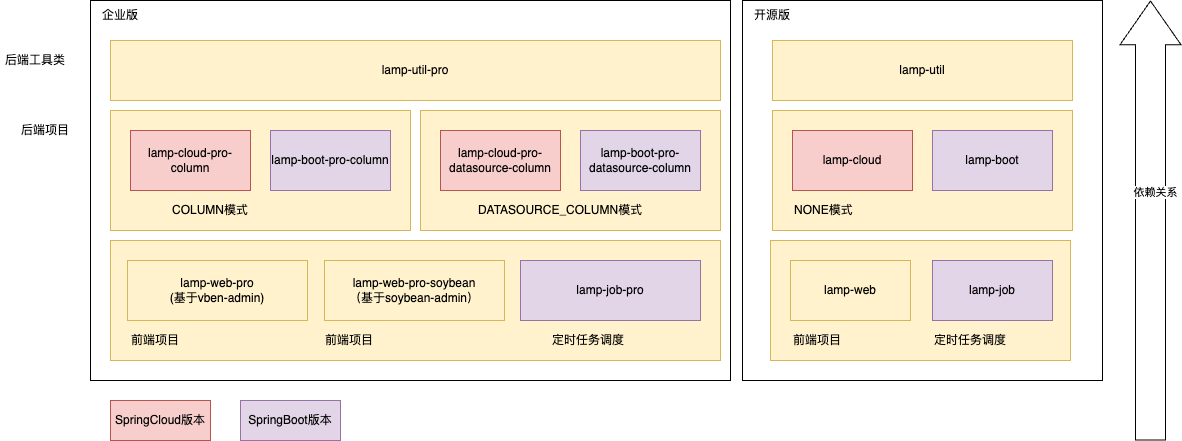
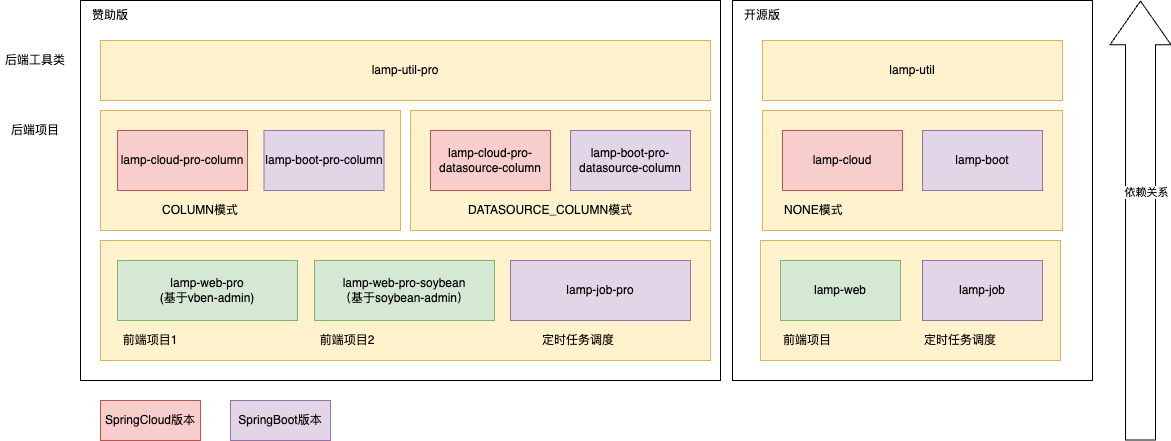
feat: 更新

diff --git a/docs/vip/05.功能对比.md b/docs/vip/05.功能对比.md
@@ -10,77 +10,72 @@ tag:
 
 ## 版本对比
 
-请认真对比个人版和赞助版区别，有疑问先咨询作者（微信： tyh306479353）
+请认真对比赞助版区别，有疑问先咨询作者（微信： tyh306479353）
 
 - **开源版** 拥有的功能和源码 = [开源版](https://github.com/zuihou)
-
 - **赞助版** 拥有的功能和源码 = 赞助版 + 开源版;(不可以提供源码给第三方)
+
+> 若贵公司确实需要提供源码给第三方客户，请加作者微信咨询“买断版”
 
 ## 源码工程说明
 
-4.15.0之前只有赞助版，4.16.0后none模式开源，其他模式属于赞助版。
-
-| 项目说明   | none模式/非租户模式/普通模式（4.16.0+已开源）                | column模式/字段模式/列模式 | datasource模式/数据源模式 |
-| ---------- | ------------------------------------------------------------ | -------------------------- | ------------------------- |
-| 后端工具   | [lamp-util](https://gitee.com/zuihou111/lamp-util/blob/4.x_java17) | lamp-util-pro              | lamp-util-pro             |
-| 单体框架   | [lamp-boot](https://gitee.com/zuihou111/lamp-boot/blob/4.x_java17) | lamp-boot-pro-column       | lamp-boot-pro-datasource  |
-| 微服务框架 | [lamp-cloud](https://gitee.com/dromara/lamp-cloud/blob/4.x_java17) | lamp-cloud-pro-column      | lamp-cloud-pro-datasource |
-| 定时任务   | -                                                            | lamp-job-pro               | lamp-job-pro              |
-| vue3前端   | [lamp-web](https://gitee.com/zuihou111/lamp-web/blob/4.x_java17) | lamp-web-pro               | lamp-web-pro              |
-
-
+| 项目说明   | none模式/非租户模式/普通模式                                                  | column模式/字段模式/列模式     | datasource模式/数据源模式        |
+|--------|--------------------------------------------------------------------|-----------------------|---------------------------|
+| 后端工具   | [lamp-util](https://gitee.com/zuihou111/lamp-util/blob/4.x_java17) | lamp-util-pro         | lamp-util-pro             |
+| 单体框架   | [lamp-boot](https://gitee.com/zuihou111/lamp-boot/blob/4.x_java17) | lamp-boot-pro-column  | lamp-boot-pro-datasource  |
+| 微服务框架  | [lamp-cloud](https://gitee.com/dromara/lamp-cloud/blob/4.x_java17) | lamp-cloud-pro-column | lamp-cloud-pro-datasource |
+| 定时任务   | -                                                                  | lamp-job-pro          | lamp-job-pro              |
+| vue3前端 | [lamp-web](https://gitee.com/zuihou111/lamp-web/blob/4.x_java17)   | lamp-web-pro          | lamp-web-pro              |
 
 ## 功能对比
 
-| 功能说明                                                                   | 开源版 | 个人版<br/>（4.x无个人版） | 赞助版 |
-|------------------------------------------------------------------------|-------|----------------|-------|
-| 更新频率                                                                   | 一般   | 快              | 频繁  |
-| mybatis-plus功能增强                                                       | ✅     | ✅              | ✅     |
-| 多种雪花id生成算法自由切换                                                         | ✅     | ✅              | ✅     |
-| swagger文档增强                                                            | ✅     | ✅              | ✅     |
-| 防 xss 攻击                                                               | ✅     | ✅              | ✅     |
-| 防 sql  注入攻击                                                            | ✅     | ✅              | ✅     |
-| SpringCloud 全局配置增强                                                     | ✅     | ✅              | ✅     |
-| Excel导入导出                                                 | ❌    | ❌             | ✅     |
-| 自研轻量级RBAC权限配置、权限鉴权逻辑                                                   | ✅     | ✅              | ✅     |
-| 权限认证、权限鉴权                                          | ✅     | ✅              | ✅     |
-| 接口权限                                                                 | ✅     | ✅              | ✅     |
-| 数据权限                                                                 | ❌     | ❌             | ✅     |
-| 表单回显组件（lamp-echo-starter）                                             | ✅     | ✅              | ✅     |
-| 优雅的缓存封装（缓存空值、缓存击穿）                                                     | ✅     | ✅              | ✅     |
-| 短信验证码、图片验证码、图片交互验证码                                                    | ✅     | ✅              | ✅     |
-| 优雅停机                                                                   | ✅     | ✅              | ✅     |
-| 优雅Bean转换                                                               | ✅     | ✅              | ✅     |
-| 兼容MySQL5.7、MySQL8                                                      | ✅     | ✅              | ✅     |
-| 用户密码过期策略、锁定解锁策略、登录是否校验密码、验证码策略、                                        | ✅     | ✅              | ✅     |
-| 登录日志、操作日志、logback日志增强                                                  | ✅     | ✅              | ✅     |
-| 分布式事务(seata)                                                           | ✅     | ✅              | ✅     |
-| 集成本地存储、FastDFS、MinIO、华为云OBS、阿里云OSS、七牛云OSS等文件存储，支持动态切换                  | ✅     | ✅              | ✅     |
-| 集成阿里、百度、腾讯、创蓝短信                                                        | ✅     | ✅              | ✅     |
-| 集成邮件发送接口                                                               | ❌      | ❌              | ✅     |
-| 消息中心 (WebScoket实时收取站内信)                                                | ✅     | ✅              | ✅     |
-| 分布式定时调度                                                                | ✅     | ✅              | ✅     |
-| 核心工具类全部源码                                                   | ✅     | ✅              | ✅     |
-| 前端框架全部源码                                      | ✅     | ✅              | ✅     |
-| 可视化的在线代码生成器全部源码                                                        | ❌     | ❌              | ✅     |
-| 非租户模式（NONE）                                                            | ✅     | ✅              | ✅     |
-| 多租户动态字段模式（COLUMN）                                                      | ✅     | ✅              | ✅     |
-| 多租户**独立数据源(独立物理数据库)** 模式(DATASOURCE)                                   | ❌     | ✅              | ✅     |
-| 多租户 + 多子租户模式**独立数据库&列模式混用** 模式(DATASOURCE_COLUMN)                 | ❌     | ✅              | ✅     |
-| 工作流（仅column和none模式的jdk8版本才有）                                           | ❌     | ✅              | ✅     |
-| 赠送项目源码讲解视频                                                             | ❌     | ✅              | ✅     |
-| 灰度发布                                                                   | ❌     | ✅              | ✅     |
-| FeignClient全局Fallback                                                  | ❌     | ✅              | ✅     |
-| lamp-boot、lamp-cloud功能增强                                               | ❌     | ✅              | ✅     |
-| 赠送开发文档                                                                 | ❌     | ✅              | ✅     |
-| 字段模式(COLUMN)租户插件支持租户字段 in 查询                                           | ❌     | ❌              | ✅     |
-| 微信互助群                                                         | ❌     | ❌              | ✅     |
-| **前端、后端统一 表单校验**                                                       | ❌     | ❌              | ✅     |
-| 基于vue3 + ant design vue 的前端框架 | ✅    | ✅              | ✅     |
-| 基于vue3 + naive-ui 的前端框架 | ❌   | ❌             | ✅     |
-| **支持商用**                                                               | ✅     | ❌              | ✅     |
-
-
+| 功能说明                                                  | 开源版 | 赞助版                  |
+|-------------------------------------------------------|-----|----------------------|
+| 更新频率                                                  | 一般  | 频繁                   |
+| mybatis-plus功能增强                                      | ✅   | ✅                    |
+| 多种雪花id生成算法自由切换                                        | ✅   | ✅                    |
+| swagger文档增强                                           | ✅   | ✅                    |
+| 防 xss 攻击                                              | ✅   | ✅                    |
+| 防 sql  注入攻击                                           | ✅   | ✅                    |
+| SpringCloud 全局配置增强                                    | ✅   | ✅                    |
+| Excel导入导出                                             | ❌   | ✅                    |
+| 自研轻量级RBAC权限配置、权限鉴权逻辑                                  | ✅   | ✅                    |
+| 权限认证、权限鉴权                                             | ✅   | ✅                    |
+| 接口权限                                                  | ✅   | ✅                    |
+| 数据权限                                                  | ❌   | ✅                    |
+| 表单回显组件（lamp-echo-starter）                             | ✅   | ✅                    |
+| 优雅的缓存封装（缓存空值、缓存击穿）                                    | ✅   | ✅                    |
+| 短信验证码、图片验证码、图片交互验证码                                   | ✅   | ✅                    |
+| 优雅停机                                                  | ✅   | ✅                    |
+| 优雅Bean转换                                              | ✅   | ✅                    |
+| 兼容MySQL5.7、MySQL8                                     | ✅   | ✅                    |
+| 用户密码过期策略、锁定解锁策略、登录是否校验密码、验证码策略、                       | ✅   | ✅                    |
+| 登录日志、操作日志、logback日志增强                                 | ✅   | ✅                    |
+| 分布式事务(seata)                                          | ✅   | ✅                    |
+| 集成本地存储、FastDFS、MinIO、华为云OBS、阿里云OSS、七牛云OSS等文件存储，支持动态切换 | ✅   | ✅                    |
+| 集成阿里、百度、腾讯、创蓝短信                                       | ✅   | ✅                    |
+| 集成邮件发送接口                                              | ✅   | ✅                    |
+| 消息中心 (WebScoket实时收取站内信)                               | ✅   | ✅                    |
+| 分布式定时调度                                               | ✅   | ✅                    |
+| 核心工具类全部源码                                             | ✅   | ✅                    |
+| 前端框架全部源码                                              | ✅   | ✅                    |
+| 可视化的在线代码生成器全部源码                                       | ❌   | ✅                    |
+| 非租户模式（NONE）                                           | ✅   | ✅                    |
+| 多租户动态字段模式（COLUMN）                                     | ❌   | ✅                    |
+| 多租户**独立数据源(独立物理数据库)** 模式(DATASOURCE)                  | ❌   | ✅                    |
+| 多租户 + 多子租户模式**独立数据库&列模式混用** 模式(DATASOURCE_COLUMN)     | ❌   | ✅                    |
+| 工作流                                                   | ❌   | ✅ （仅column的jdk8版本才有） |
+| 赠送项目源码讲解视频                                            | ❌   | ✅                    |
+| 灰度发布                                                  | ❌   | ✅                    |
+| FeignClient全局Fallback                                 | ❌   | ✅                    |
+| lamp-boot、lamp-cloud功能增强                              | ❌   | ✅                    |
+| 赠送开发文档                                                | ❌   | ✅                    |
+| 字段模式(COLUMN)租户插件支持租户字段 in 查询                          | ❌   | ✅                    |
+| 微信互助群                                                 | ❌   | ✅                    |
+| **前端、后端统一 表单校验**                                      | ❌   | ✅                    |
+| 基于vue3 + ant design vue 的前端框架(lamp-web-pro)           | ✅   | ✅                    |
+| 基于vue3 + naive-ui 的前端框架(lamp-web-pro-soybean)         | ❌   | ✅                    |
+| **支持商用**                                              | ✅   | ✅                    |
 
 ## 注意
 
@@ -89,21 +84,16 @@ tag:
 - 4.x系列不能通过 `lamp.database.multiTenantType` 来切换模式
 - 4.x系列和3.x系列不能无缝升级！ 虽然看起来是版本的升级，实际上可以理解为用相同技术栈实现的2个不同业务的项目。
 
-
-
 ## 技术栈
 
-:::: details 
+:::: details
 
 <!-- @include: ../doc/info/功能介绍.md#jsz -->
 ::::
 
-
-
 ## 4.x 功能清单
 
-
-:::: details 
+:::: details
 
 <!-- @include: ../doc/info/功能介绍.md#base -->
 ::::

diff --git a/docs/vip/03.授权须知.md b/docs/vip/03.授权须知.md
@@ -29,21 +29,21 @@ tag:
 
 ## 开源版、赞助版 权益和约束对比
 
-| 权益和约束                      | 开源版 | 个人学习版 | 赞助版 | 备注                                                                 |
-|----------------------------|---|---|-----|--------------------------------------------------------------------|
-| 赠送离线开发文档                   | ❌ | ✅ | ✅   |                                                                    |
-| 全部源码                       | ✅ | ✅ | ✅   | 提供本项目相关的所有前、后端、公共模块、代码生成器源码, 没有闭源的jar (其三方jar不算)                   |
-| 商业使用                       | ✅ | ❌ | ✅   | 开源版:无需授权任意使用<br />赞助版:允许个人和企业使用。**违反必究！！！**                        |
-| 转卖、售卖、赠送源码、视频、文档给第三方       | ❌ | ❌ | ❌   | 违反必究！！！                                                            |
-| 二次开发后，开源源码                 | ✅ | ❌ | ❌   | 开源版的可以基于本项目二次开发后再次开源，但需要标记出处。<br> 个人版和赞助版禁止将源码开源。                  |
-| 允许将二开之后的源码提供给第三方           | ✅ | ❌ | ❌   | **赞助版** 只能将《灯灯》源码作为公司内部项目使用，不允许将源码提供给第三方。                        |
-| 基于本产品包装成同种类别的衍生产品进行源码、文档售卖盈利 |  ❌ | ❌  | ❌   | 可以作为公司商业项目开发、交付使用，但严禁修改成类似SaaS快速开发平台、开发框架等同类产品进行售卖盈利！<br/> **违反必究！！！** |
-| 是否提供发票                     | ❌ | ❌ | ✅   |                                                                    |
+| 权益和约束                      | 开源版 | 赞助版 | 备注                                                             |
+|----------------------------|---|-----|----------------------------------------------------------------|
+| 赠送离线开发文档                   | ❌  | ✅   |                                                                |
+| 全部源码                       | ✅  | ✅   | 提供本项目相关的所有前、后端、公共模块、代码生成器源码, 没有闭源的jar (其三方jar不算)               |
+| 商业使用                       | ✅  | ✅   | 开源版:无需授权任意使用<br />赞助版:允许个人和企业使用。**违反必究！！！**                    |
+| 转卖、售卖、赠送源码、视频、文档给第三方       | ❌  | ❌   | 违反必究！！！                                                        |
+| 二次开发后，开源源码                 | ✅  | ❌   | 开源版的可以基于本项目二次开发后再次开源，但需要标记出处。<br> 赞助版禁止将源码开源。                  |
+| 允许将二开之后的源码提供给第三方           | ✅  | ❌   | **赞助版** 只能将《灯灯》源码作为公司内部项目使用，不允许将源码提供给第三方。                      |
+| 基于本产品包装成同种类别的衍生产品进行源码、文档售卖盈利 |  ❌  | ❌   | 可以作为公司商业项目开发、交付使用，但严禁修改成类似SaaS快速开发平台、开发框架等同类产品进行售卖盈利！<br/> **违反必究！！！** |
+| 是否提供发票                     | ❌ | ✅   |                                                                |
 
 ## 疑惑解答
 1. 能否试用？
 
-   个人版和赞助版源码无法试用，可以通过以下地址查看部署后的效果，想要了解源码可以看 [开源版lamp-cloud](https://github.com/dromara/lamp-cloud)
+   赞助版源码无法试用，可以通过以下地址查看部署后的效果，想要了解源码可以看 [开源版lamp-cloud](https://github.com/dromara/lamp-cloud)
 
    - [赞助版(数据源模式)](https://datasource.tangyh.top/)
    - [赞助版(字段模式)](https://column.tangyh.top/)

diff --git a/docs/vip/02.交付物.md b/docs/vip/02.交付物.md
@@ -12,9 +12,9 @@ tag:
 
 - 源码
 
-  赞助后，您提供一个邮箱，给你开通私服gitlab账号。
+  赞助后，您提供一个邮箱，给你开通私服gitlab账号，通过账号可开通如下图“赞助版中”的8个项目源码。
 
-  提供所有自主开发的源码。
+  ![](/images/global/4.x项目关系图.png)
 
 - 文档
 
@@ -55,7 +55,7 @@ https://gitee.com/dromara/lamp-cloud/issues/I6NT95
 
 - 远程讲解：999元/3小时左右  (不含票)
 
-  如果你觉得看源码，看文档，看视频还有疑惑， 无论你使用开源版、个人版、赞助版，你都可以联系作者，给你们个人或团队讲解框架如何使用、如何避坑，并且给你们个人或团队挑选一个合适的模式。
+  如果你觉得看源码，看文档，看视频还有疑惑， 无论你使用开源版、赞助版，你都可以联系作者，给你们个人或团队讲解框架如何使用、如何避坑，并且给你们个人或团队挑选一个合适的模式。
 
 - 精简项目：300元 (不含票)
 

diff --git a/docs/doc/info/功能介绍.md b/docs/doc/info/功能介绍.md
@@ -245,6 +245,7 @@ tag:
     - 缓存：Redis
     - 数据库： MySQL 5.7.x 或者 MySQL 8.0.x
     - 定时器：采用xxl-job项目进行二次改造
+    - 登录、权限框架：Sa-Token
     - 前端1：基于vben-admin二次开发，采用vue3 + ant-design-vue + vite + TypeScript等技术
     - 前端2：基于soybean-admin二次开发，采用vue3 + naive-ui + vite +  TypeScript等技术
     - 持久层框架： Mybatis-plus
@@ -257,7 +258,7 @@ tag:
     - 项目构建：Maven
     - 分布式事务： seata
     - 文件服务器：支持 FastDFS 5.0.5/阿里云OSS/本地存储/MinIO/华为云/七牛云 任意切换
-
+    
 - 监控方面：
     - 监控： spring-boot-admin
     - 链路调用跟踪： SkyWalking

diff --git a/docs/vip/01.授权费用.md b/docs/vip/01.授权费用.md
@@ -30,7 +30,7 @@ tag:
 
 - 远程讲解：999元/3小时左右    (不含票)
 
-  如果你觉得看源码，看文档，看视频还有疑惑， 无论你使用开源版、个人版、赞助版，你都可以联系作者，给你们个人或团队讲解框架如何使用、如何避坑，并且给你们个人或团队挑选一个合适的模式。
+  如果你觉得看源码，看文档，看视频还有疑惑， 无论你使用开源版、赞助版，你都可以联系作者，给你们个人或团队讲解框架如何使用、如何避坑，并且给你们个人或团队挑选一个合适的模式。
 
 - 精简项目：300元   (不含票)
 

diff --git a/docs/vip/10.赏金猎人.md b/docs/vip/10.赏金猎人.md
@@ -38,14 +38,5 @@ tag:
 3. 提出过5次以上bug，并被确认为bug的
 4. 100粉丝以上的技术类公众号发文介绍、宣传本项目
 
-## 免费获得个人版授权
-
-满足以下任一条件，赠送个人版授权：
-
-1. 1千粉丝以上的技术类活跃公众号发送文章介绍、宣传本项目
-
-2. 积极、活跃的提交pr、发现并修复bug，对本项目有一定的理解和建议者
-
-3. 给开源版提交多次有效的pr且被合并的
 
    
